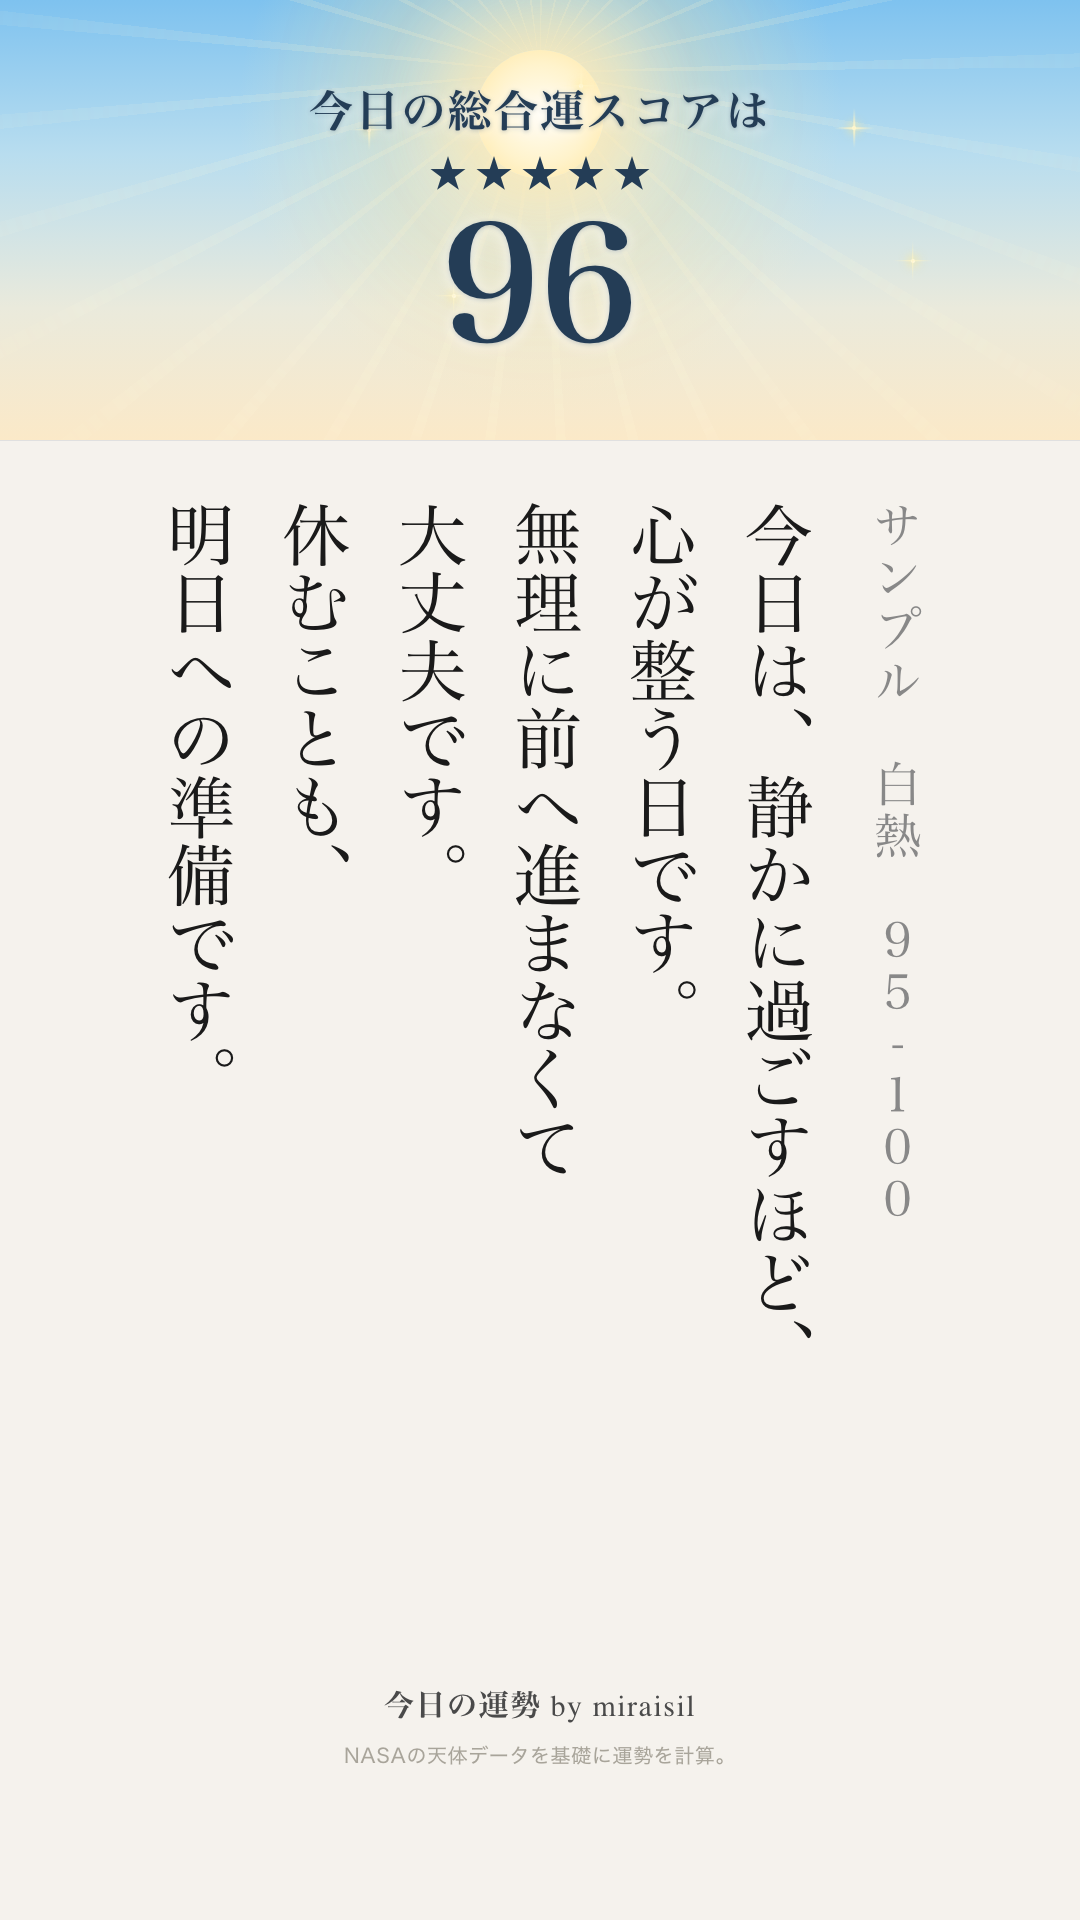
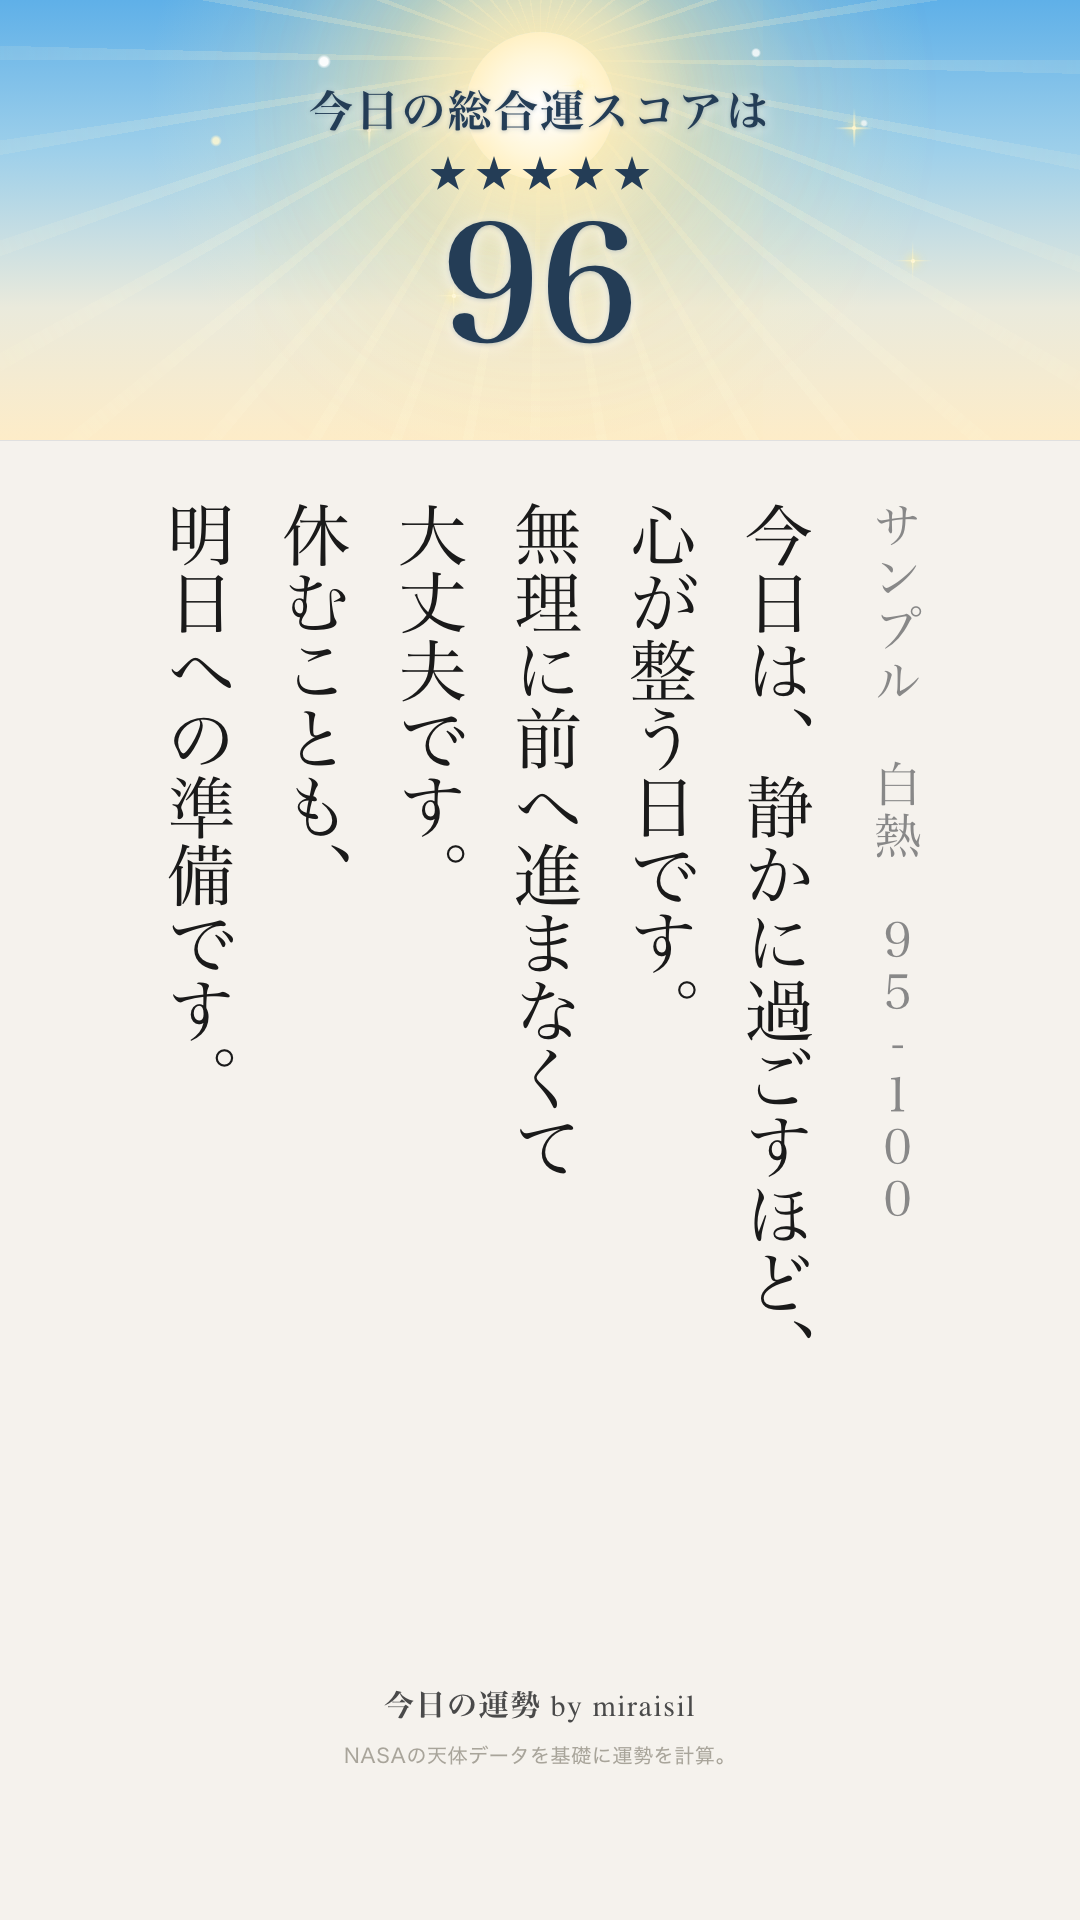
restore a clear 96 vs 85 gap in the sky-scene prototype
Richening 85 last round made it nearly indistinguishable from 96 (both
read as "bright blue sky with sun"). Pushes 96 further (bigger sun,
stronger glow/rays, added flare) instead of dulling 85, and pulls 85's
halo back one notch so it reads as a calmer, lesser sky.

Changed region(s): [[0.0, 0.0, 0.2444, 0.125], [0.825, 0.0, 1.0, 0.0938], [0.4583, 0.0, 0.55, 0.0312]]

diff --git a/sky-test/index.html b/sky-test/index.html
@@ -54,13 +54,26 @@
 弱く、96と77に挟まれると"色あせて何もない"印象だった。→ 上空の青をより澄んで豊かな
 スカイブルーに（彩度47%→65%）、太陽にふんわり大きめのハローを追加して「陽が射して
 いる」存在感を出し、極薄の雲を3枚重ねて奥行きを足した（一色べったりのグラデを回避）。
-77より地味に見えないか、"気持ちのいい快晴"に見えるかを確認してください。
+</div>
+<div class="note">
+【96と85の格差を再確保】指摘: 85を快晴に格上げした結果、96（青空＋白熱＋光芒）と
+85（青空＋ハロー＋薄雲）の差が縮まり、どちらも「明るい青空の太陽」で見分けにくく
+なった。→ 85を地味に戻すのではなく、96を突き抜けさせ、85はほんの少しだけ引く方針。
+96: 空の青をさらに鮮やかに（彩度78%→75%はほぼ維持しつつ明度/彩度バランス調整）、
+太陽を128px→148pxに拡大、グロー半径・光芒の不透明度を増し、きらめき点4つ（flare）
+を追加して「最上位の特別な一枚」に。85: 太陽108px→92px、ハローの半径・不透明度を
+1段引いて、96ほど眩しくない「穏やかな快晴」の位置に戻した（豊かな青空・薄雲3枚は
+維持）。
 </div>
 <div class="row">
-  <figure><img src="scene_96.png"><figcaption>96点 昼の絶頂 95-100 ★5<br>太陽：高い位置・強い光芒</figcaption></figure>
-  <figure><img src="scene_85.png"><figcaption>85点 気持ちのいい快晴 85-89 ★3<br>太陽：ふんわりハロー・薄雲3枚（今回改善）</figcaption></figure>
+  <figure><img src="scene_96.png"><figcaption>96点 昼の絶頂 95-100 ★5<br>太陽拡大＋flare追加（今回さらに強化）</figcaption></figure>
+  <figure><img src="scene_85.png"><figcaption>85点 気持ちのいい快晴 85-89 ★3<br>ハローを1段控えめに（今回調整）</figcaption></figure>
   <figure><img src="scene_77.png"><figcaption>77点 ゴールデンアワー 75-79 ★2<br>太陽：地平近く・上空は青のまま</figcaption></figure>
   <figure><img src="scene_66.png"><figcaption>66点 沈んだ直後 65-69 ★1<br>太陽：地平線ぎりぎり・残照のみ</figcaption></figure>
+</div>
+<div class="note">
+96と85が一目で別物に見えるか（96が突き抜けているか、85が96の劣化版に見えないか）
+を確認してください。
 </div>
 <div class="note">
 この4枚で確認したいこと: (1)空の情景として成立しているか (2)77が"夕焼けの空"に
